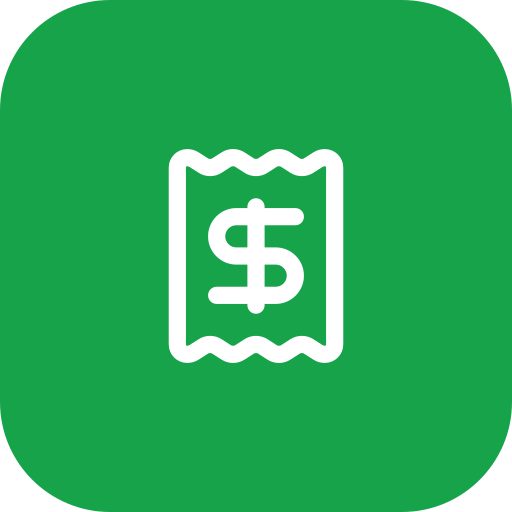
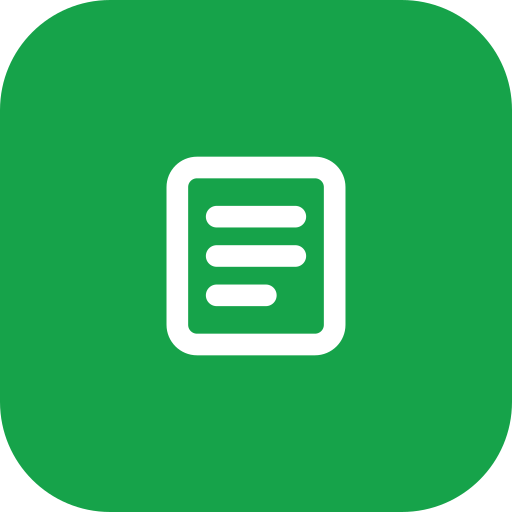
brand: the notepad mark everywhere, one definition
Manoj, with the two logos side by side: "this is main and not this so
switch that to" — the notepad is the mark, the torn-slip receipt is not.

I got this wrong in #189. I read the mark off the live nav, which was
drawing Lucide's `Receipt` (a torn-edge slip with a $ in it), and cut
the whole icon set from it. That was already the wrong glyph — it just
happened to be the one the landing page had. The real mark is the one
Layout.jsx has always drawn, and its own comment says so: "an inverted
version of the favicon shape (notepad lines) ... so it reads as the
BonBox logo even at 24px".

Root cause is that the mark was hand-drawn per surface, so the surfaces
drifted: Layout drew the notepad, the v2 nav and footer drew Receipt,
and the generated icons were cut from Receipt. bonbox.dk, the app chrome
and the icon on a shared link were three different logos.

Fixed by making it one definition. components/BonBoxMark.jsx holds the
geometry — rect x=4 y=3 w=16 h=18 rx=2, then rules at M8 8h8 / M8 12h8 /
M8 16h5, stroke currentColor so callers keep colouring it with a text-*
class exactly as they did the Lucide icon. NavV2 and FooterV2 now import
it instead of drawing their own.

favicon.svg, icon-192.svg, icon-192.png, icon-512.png and og-image.png
re-cut from those same numbers, so the tab icon, the PWA icon and the
link preview are the mark rather than a lookalike. sw.js bumped v5 -> v6
— it precaches the icons, so without that a returning visitor keeps the
[…]

Changed region(s): [[0.3125, 0.2812, 0.6875, 0.7188]]

diff --git a/frontend/src/components/BonBoxMark.jsx b/frontend/src/components/BonBoxMark.jsx
@@ -1,0 +1,44 @@
+/**
+ * The BonBox mark — the notepad shape, and the only correct one.
+ *
+ * There is one glyph and this file is it. Before this component existed the
+ * mark was hand-drawn at each brand surface and they drifted apart: Layout
+ * drew this notepad, the v2 landing nav and footer drew Lucide's `Receipt`
+ * (a torn-edge slip with a $ in it), and the generated favicon/app icons were
+ * cut from the Receipt version — so bonbox.dk, the app chrome and the icon on
+ * a shared link were three different logos. Import this instead of drawing it.
+ *
+ * Geometry is the one Layout.jsx has always used, on a 24x24 box:
+ *   a rounded page, and three rules — long, long, short.
+ * Stroke is currentColor, so the caller sets the colour with a text-* class
+ * exactly as it did with the Lucide icon it replaces.
+ *
+ * The PNG/SVG icons in public/ are generated from these same numbers — see
+ * the generator note in that folder's commit. If this path ever changes, the
+ * icons have to be re-cut or the drift starts again.
+ */
+export default function BonBoxMark({
+  size = 16,
+  strokeWidth = 2.2,
+  className = "",
+  ...rest
+}) {
+  return (
+    <svg
+      width={size}
+      height={size}
+      viewBox="0 0 24 24"
+      fill="none"
+      stroke="currentColor"
+      strokeWidth={strokeWidth}
+      strokeLinecap="round"
+      strokeLinejoin="round"
+      aria-hidden="true"
+      className={className}
+      {...rest}
+    >
+      <rect x="4" y="3" width="16" height="18" rx="2" />
+      <path d="M8 8h8M8 12h8M8 16h5" />
+    </svg>
+  );
+}

diff --git a/frontend/src/components/landing/v2/NavV2.jsx b/frontend/src/components/landing/v2/NavV2.jsx
@@ -12,7 +12,8 @@
 
 import { useCallback, useEffect, useRef, useState } from "react";
 import { Link } from "react-router-dom";
-import { Menu, Receipt, X } from "lucide-react";
+import { Menu, X } from "lucide-react";
+import BonBoxMark from "../../BonBoxMark";
 import { useLanguage } from "../../../hooks/useLanguage";
 
 /** Landing copy exists in these two only — see the switcher comment below. */
@@ -53,7 +54,7 @@ export default function NavV2() {
             aria-hidden="true"
             className="flex h-[30px] w-[30px] flex-none items-center justify-center rounded-[9px] bg-bb-green"
           >
-            <Receipt size={15} strokeWidth={1.75} className="text-white" />
+            <BonBoxMark size={16} strokeWidth={2} className="text-white" />
           </span>
           <span className="font-display text-[19px] font-bold tracking-[-0.025em] text-slate-900">
             BonBox

diff --git a/frontend/src/components/landing/v2/FooterV2.jsx b/frontend/src/components/landing/v2/FooterV2.jsx
@@ -31,7 +31,7 @@
  */
 
 import { Link } from "react-router-dom";
-import { Receipt } from "lucide-react";
+import BonBoxMark from "../../BonBoxMark";
 import { useLanguage } from "../../../hooks/useLanguage";
 
 // Registry values, not copy. Deliberately outside t().
@@ -80,7 +80,7 @@ export default function FooterV2() {
               aria-hidden="true"
               className="flex h-7 w-7 flex-none items-center justify-center rounded-lg bg-bb-green"
             >
-              <Receipt size={14} strokeWidth={1.75} className="text-white" />
+              <BonBoxMark size={15} strokeWidth={2} className="text-white" />
             </span>
             <span className="font-display text-[18px] font-bold tracking-[-0.025em] text-slate-900">
               BonBox

diff --git a/frontend/public/sw.js b/frontend/public/sw.js
@@ -1,4 +1,4 @@
-const CACHE_NAME = "bonbox-v5";
+const CACHE_NAME = "bonbox-v6";
 // 2026-05-25 — API cache key bumped (was bonbox-api-v1). The previous
 // SW served /api/dashboard/* via stale-while-revalidate with a 5-min
 // TTL, which meant after an optimistic-add on Sales/Expenses the very
